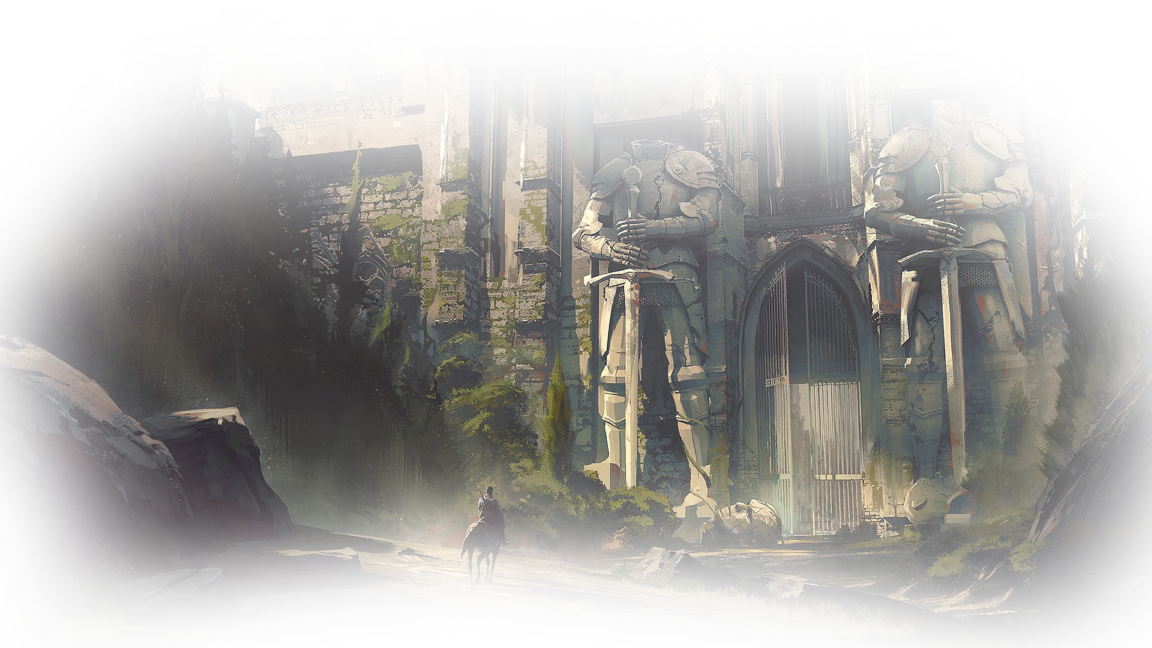
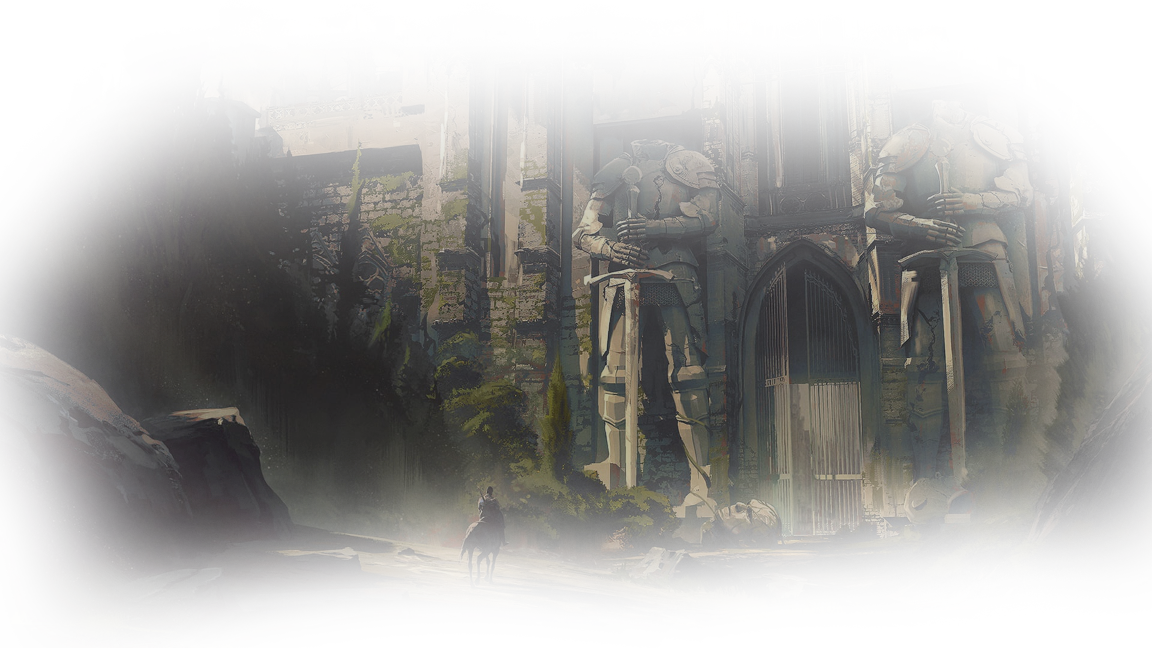
main page finished?

Changed region(s): [[0.2812, 0.2469, 1.0, 0.9877], [0.1562, 0.6173, 0.2188, 0.679], [0.8125, 0.2778, 0.8438, 0.3086]]

diff --git a/src/pages/Home.js b/src/pages/Home.js
@@ -1,44 +1,47 @@
 import React from 'react';
 import { Link } from 'react-router-dom';
 import { motion } from 'framer-motion';
-import mobileImg from '../assets/mobile.png'
-import discordImg from '../assets/discord.png'
-import playBackgroundImg from '../assets/background.png';
+import bgImgWide from '../assets/background.png';
+import bgImgMobile from '../assets/backgroundmobile.png';
 import ChatInterface from '../components/Chat';
+import Testimonials from '../components/Testimonials';
 
 const HomePage = () => {
     return (
         // Main container
-        
+
         <motion.div
             initial={{ opacity: 0 }}
             animate={{ opacity: 1 }}
             exit={{ opacity: 0 }}
-            className=" min-h-screen flex flex-col justify-center items-center text-center" >
-            <div className='w-full md:block opacity-40 min-h-screen absolute bottom-0'>
-                <img src={playBackgroundImg} className='bottom-[10%]  md:bottom-1/4 w-full absolute lg:bottom-0'></img>
+            className="container mx-auto min-h-screen flex flex-col justify-center items-center text-center" >
+                {/* bg image */}
+            <div className='w-full hidden xl:block min-h-screen absolute bottom-0'>
+                <img src={bgImgWide} className='opacity-60 w-full absolute bottom-0'></img>
             </div>
-
+            <div className='w-full xl:hidden min-h-screen absolute flex items-center justify-center bottom-0'>
+                <img src={bgImgMobile} className=' opacity-60 w-full absolute sm:bottom-0'></img>
+            </div>
             {/* play section */}
             <motion.div
                 initial={{ opacity: 0, y: 20 }}
                 animate={{ opacity: 1, y: 0 }}
                 transition={{ duration: 0.5, delay: 0.3 }}
                 id='play' className="z-10 px-7 h-screen flex flex-col items-center justify-center" >
-                <h1 className="text-4xl md:text-8xl font-bold text-MountainMeadow mb-4">
+                <h1 className="text-4xl md:text-8xl font-bold drop-shadow-[0_1.2px_1.2px_rgba(0,0,0,0.8)] text-GreenMist mb-4">
                     Welcome Adventurer...
+                    
                 </h1>
-                <p className="text-lg md:text-xl text-MountainMeadow mb-5">
+                <p className="text-lg md:text-xl drop-shadow-[0_1.2px_1.2px_rgba(0,0,0,0.8)] text-GreenMist mb-5 ">
                     Dive into a world of magic and mystery, where every decision shapes your destiny.
                 </p>
                 <div className="space-y-4">
                     <motion.button
                         whileHover={{ scale: 1.05 }}
                         whileTap={{ scale: 0.95 }}
-                        className="bg-MountainMeadow hover:bg-MountainMeadow text-white py-2 px-10 rounded-lg shadow-md transition duration-300"
+                        className="bg-GreenMist text-gray-700 py-2 px-10  rounded-lg shadow-md transition duration-300"
                     >
                         <Link to="https://casuallegends.app/">Play Now</Link>
-                        
                     </motion.button>
                 </div>
             </motion.div>
@@ -61,69 +64,50 @@ const HomePage = () => {
                         </p>
                     </div>
                     <div className='w-full md:w-1/2 lg:w-1/3 '>
-                    <ChatInterface/>
+                        <ChatInterface />
                     </div>
                 </div>
-                <div className='flex px-4 justify-center gap-y-5 flex-col md:flex-row md:justify-evenly items-center md:items-start'>
-                    <div className='w-full md:w-1/2'>
-                        <img src={discordImg} className='rounded-lg w-full' alt='Discord' />
-                    </div>
-                    <div className='w-full md:w-1/2  lg:w-1/3 flex flex-col items-center justify-center'>
-                        <p className='text-lg md:text-3xl mb-3 font-bold text-MountainMeadow'>
-                            Empower Your Narrative: Where AI Fuels Emergent Stories, Welcoming Casual Players and Encouraging Active Participation
-                        </p>
-                        <p className='md:text-lg text-MountainMeadow'>
-                            Lorem ipsum dolor sit amet, consectetur adipiscing elit. In id tincidunt tellus, a blandit nibh. Nulla pellentesque quis sapien vel sodales. Quisque sed mauris quis ex malesuada aliquet a ut nibh. Praesent eget eros a urna vestibulum pharetra. Mauris aliquet blandit nisl, a cursus arcu semper ut. Interdum et malesuada fames ac ante ipsum primis in faucibus. Mauris vulputate euismod odio, at vehicula ligula commodo pulvinar. Phasellus nec ex risus.
-                        </p>
-                    </div>
-                </div>
+
             </motion.div>
 
-            
-            {/* Screenshots Section */}
-            <section className="w-full my-10">
-                <h2 className="text-2xl font-bold mb-4">Screenshots</h2>
-                
-            </section>
-
             {/* Testimonials Section */}
-            <section className="my-10">
-                <h2 className="text-2xl font-bold mb-4">Testimonials</h2>
-                {/* Add your testimonials component here */}
-                <motion.div
-                    initial={{ opacity: 0 }}
-                    animate={{ opacity: 1 }}
-                    transition={{ duration: 0.5 }}
-                >
-                    {/* Testimonial content */}
-                    <blockquote>
-                        <p>"This game is amazing! The AI DM adds a whole new level of immersion."</p>
-                        <cite>- John Doe</cite>
-                    </blockquote>
-                    <blockquote>
-                        <p>"I've been playing this game for weeks and I'm still discovering new adventures. Highly recommended!"</p>
-                        <cite>- Jane Smith</cite>
-                    </blockquote>
-                </motion.div>
-            </section>
+            <div className='flex flex-col  gap-y-5 mb-10  lg:flex-row lg:justify-evenly items-center lg:items-start'>
+                <Testimonials
+                    msg="Lorem ipsumolestiae. Numquam corrupti in laborum sed rerum et corporis."
+                    name="John Doe"
+                    role="CEO"
+                />
+                <Testimonials
+                    msg="Lorem ipsum dolor sit amet consectetur adipisicing elit. Nemo expedita voluptas culpa sapiente alias molestiae. Numquam corrupti in laborum sed rerum et corporis."
+                    name="John Doe"
+                    role="CEO"
+                />
+                <Testimonials
+                    msg="Lorem ipsum dolor apiente alias molestiae. Numquam corrupti in laborum sed rerum et corporis."
+                    name="John Doe"
+                    role="CEO"
+                />
+
+            </div>
 
             {/* FAQ Section */}
-            <section className="my-10">
-                <h2 className="text-2xl font-bold mb-4">FAQ</h2>
-                {/* Add your FAQ component here */}
-                <div className="bg-gray-200 p-4 rounded-md mb-4">
+            <h2 className="text-2xl text-MountainMeadow font-bold my-4">Frequently Asked Questions</h2>
+            {/* Add your FAQ component here */}
+            <div className='flex flex-col gap-y-5 gap-x-5 md:flex-row justify-evenly items-center md:items-start mb-9'>
+                <div className="bg-GreenMist flex flex-col justify-center p-4 w-[95%] min-h-[115px]  md:max-w-[30%] rounded-md mb-4">
                     <h3 className="font-semibold">Q: How do I create a character?</h3>
                     <p className="mt-2">A: Character creation is simple! Just follow the prompts when starting a new game.</p>
                 </div>
-                <div className="bg-gray-200 p-4 rounded-md mb-4">
+                <div className="bg-GreenMist flex flex-col justify-center p-4 w-[95%] min-h-[115px] md:max-w-[30%] rounded-md mb-4">
                     <h3 className="font-semibold">Q: Is the game free to play?</h3>
                     <p className="mt-2">A: Yes, you can try the game for free with limited turns.</p>
                 </div>
-                <div className="bg-gray-200 p-4 rounded-md mb-4">
+                <div className="bg-GreenMist flex flex-col justify-center p-4 w-[95%] min-h-[115px] md:max-w-[30%] rounded-md mb-4">
                     <h3 className="font-semibold">Q: Can I play with friends?</h3>
-                    <p className="mt-2">A: Currently, the game is single-player only.</p>
+                    <p className="mt-2">A: Of course! All you need to do is invite them to your chat room.</p>
                 </div>
-            </section>
+            </div>
+
 
         </motion.div>
     );

diff --git a/src/components/Chat.js b/src/components/Chat.js
@@ -1,4 +1,4 @@
-import React, { useEffect, useState } from 'react';
+import React, { useEffect, useState, useRef } from 'react';
 
 const ChatInterface = () => {
     const messages = [
@@ -16,7 +16,7 @@ const ChatInterface = () => {
 const Chat = ({ messages }) => {
     const [currentMessageIndex, setCurrentMessageIndex] = useState(0);
     const [progress, setProgress] = useState(0);
-    let interval;
+    const intervalRef = useRef(null); // Ref for storing interval
 
     const handleMessageChange = (direction) => {
         if (direction === 'next') {
@@ -34,30 +34,30 @@ const Chat = ({ messages }) => {
     };
 
     useEffect(() => {
-        interval = setInterval(() => {
+        intervalRef.current = setInterval(() => {
             setProgress((prevProgress) => {
                 if (prevProgress > 100) {
                     handleMessageChange('next');
                     return 0;
                 }
-                return prevProgress + 3; // Increase progress bar width by 1% every 50ms
+                return prevProgress + 3; // Increase progress bar width by 3% every 150ms
             });
-        }, 150); // Update progress bar every 50 milliseconds
+        }, 150); // Update progress bar every 150 milliseconds
 
-        return () => clearInterval(interval); // Clean up the interval on unmount
+        return () => clearInterval(intervalRef.current); // Clean up the interval on unmount
     }, []);
 
     const { playerName, playerMsg, dmMsg } = messages[currentMessageIndex];
 
     return (
-        <div className="p-4 bg-white bg-opacity-80  rounded-lg">
+        <div className="p-4 bg-Putty bg-opacity-40 rounded-lg">
             {/* Bard Message */}
             <div className="flex flex-col items-end mb-4">
                 <div className="flex items-center mb-4">
                     <img src="" alt="Bard" className="h-8 w-8 rounded-full mr-2" />
                     <span className="text-sm font-bold">{playerName}</span>
                 </div>
-                <div className="bg-blue-100 rounded-lg p-2">
+                <div className="bg-GreenMist rounded-lg p-2">
                     <p className="text-sm">{playerMsg}</p>
                 </div>
             </div>
@@ -68,13 +68,13 @@ const Chat = ({ messages }) => {
                     <img src="" alt="Game Master" className="h-8 w-8 rounded-full mr-2" />
                     <span className="text-sm font-bold">Game master</span>
                 </div>
-                <div className="bg-gray-100 rounded-lg p-2">
+                <div className="bg-Putty rounded-lg p-2">
                     <p className="text-sm text-start">{dmMsg}</p>
                 </div>
             </div>
 
             {/* Progress Bar */}
-            <div className="w-8/12 mx-auto h-1 bg-gray-200 rounded">
+            <div className="w-8/12 mx-auto h-1 bg-white rounded">
                 <div
                     className="h-full bg-Putty rounded"
                     style={{ width: `${progress}%`, transition: 'width 0.5s ease' }}
@@ -83,7 +83,7 @@ const Chat = ({ messages }) => {
 
             {/* Buttons to change message */}
             <div className="flex justify-center items-center mt-2 space-x-1">
-                <button onClick={() => handleMessageChange('prev')} className="bg-Putty hover:bg-opacity-50 text-white font-bold px-2 py-1 rounded-full ">
+                <button onClick={() => handleMessageChange('prev')} className="bg-Putty hover:bg-opacity-50 text-center text-white font-bold px-2 py-1 rounded-full ">
                     &larr;
                 </button>
                 <div className="flex justify-center items-center space-x-1">
@@ -91,12 +91,12 @@ const Chat = ({ messages }) => {
                     <button
                         key={index}
                         onClick={() => handleJumpToMessage(index)}
-                        className={`bg-Putty hover:bg-opacity-100 text-white font-bold p-4 rounded-full ${currentMessageIndex === index ? 'bg-opacity-50' : ''}`}
+                        className={`bg-Putty text-white hover:bg-opacity-50 font-bold p-4 rounded-full ${currentMessageIndex === index ? 'bg-opacity-50' : ''} `}
                     >
                     </button>
                 ))}
             </div>
-                <button onClick={() => handleMessageChange('next')} className="bg-Putty hover:bg-opacity-50 text-white font-bold px-2 py-1 rounded-full">
+                <button onClick={() => handleMessageChange('next')} className="bg-Putty hover:bg-opacity-50 text-center text-white font-bold px-2 py-1 rounded-full">
                     &rarr;
                 </button>
             </div>

diff --git a/src/components/Testimonials.js b/src/components/Testimonials.js
@@ -1,0 +1,29 @@
+import React from 'react'
+
+function Testimonials({ msg, img, name, role }) {
+    return (
+        <section className="relative flex flex-col rounded-lg justify-between min-h-[330px] w-[90%] lg:max-w-[30%] bg-GreenMist px-6 py-8 lg:px-8">
+            <blockquote className="text-center text-xl font-semibold leading-8 text-gray-900 sm:text-2xl sm:leading-9">
+                <p>
+                    {msg}
+                </p>
+            </blockquote>
+            <figcaption className="mt-10">
+                <img
+                    className="mx-auto h-10 w-10 rounded-full"
+                    src={img}
+                    alt="img"
+                />
+                <div className="mt-4 flex items-center justify-center space-x-3 text-base">
+                    <div className="font-semibold text-gray-900">{name}</div>
+                    <svg viewBox="0 0 2 2" width={3} height={3} aria-hidden="true" className="fill-gray-900">
+                        <circle cx={1} cy={1} r={1} />
+                    </svg>
+                    <div className="text-gray-600">{role}</div>
+                </div>
+            </figcaption>
+        </section>
+    )
+}
+
+export default Testimonials
